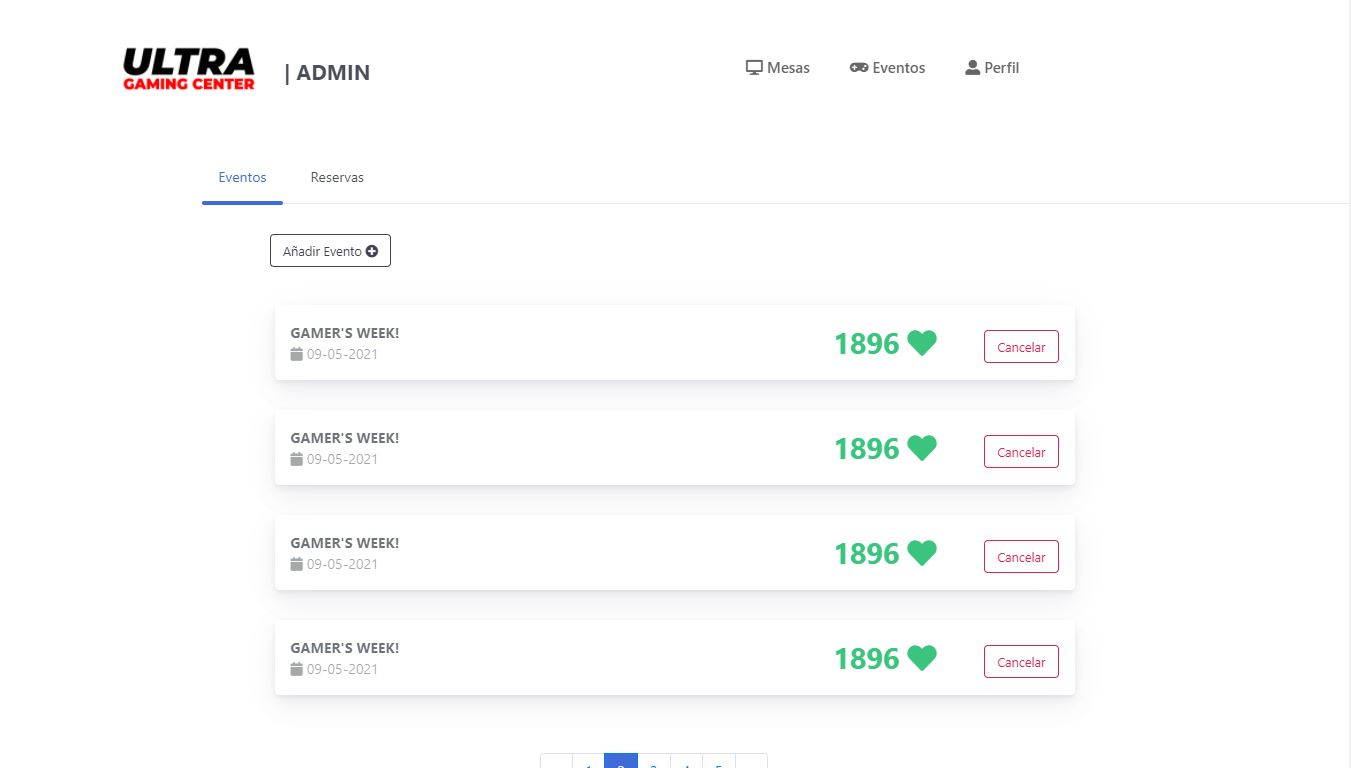
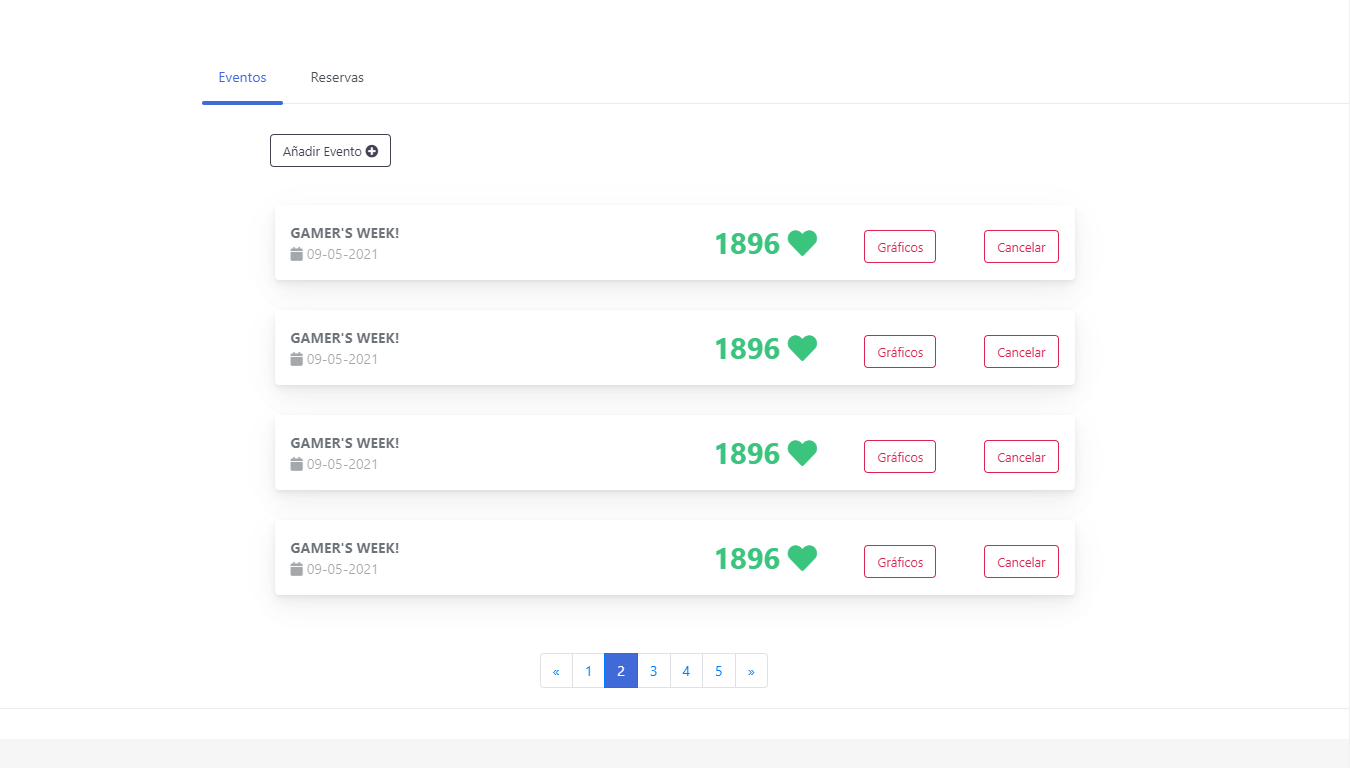
Final readme Phase 1

diff --git a/README.md b/README.md
@@ -93,36 +93,52 @@ Web app for a gaming center called ***Ultra Game Center***
   
 **Table of contents**:
   - Home page: presentation of the website.
+  
   ![Home page](readme-photos/home.PNG)
   
   - Reservation: allows users to book a table.
+  
   ![Reservation](readme-photos/reservas.PNG)
   
   - Events: shows all events.
   
+  ![Events](readme-photos/Events.PNG)
+  
   - Single event: shows the information of a specific event.
+  
   ![Single event](readme-photos/SingleEvent.PNG)
  
   - Register: allows the non-registered users to create a profile.
+  
   ![Register](readme-photos/LoginRegister.PNG)
   
   - Login: allows the visitor to log in the website.
+  
   ![Register](readme-photos/LoginRegister.PNG)
   
   - User profile: allows the users to see and modify their profile.
+  
   ![User](readme-photos/user.PNG)
   
-  - Admin profile: allows the admins to see and modify their profile.
-  
   - Admin events: allows the admins to see info about their events.
+  
   ![Admin events](readme-photos/admin-events.JPG) 
   
   - Admin reservation: allows the admins to see all the reservations and interact with them.
+  
   ![Admin reservation](readme-photos/admin-reservation.JPG)
   
   - Graphs page: allows the admins to see graphical information about their events.
   
+  ![Asistencia Eventos](readme-photos/AsistenciaEventos.png)
+  
+  ![Ocupacion Mesas](readme-photos/OcupacionMesas.png)
+  
   - Footer: shows the visitor contact information and a map of our location.
+  
   ![Footer](readme-photos/Footer.PNG)
   
 **Navigation Diagram**: 
+
+  ![Navigation Diagram](readme-photos/Diagrama_de_navegacion.PNG)
+
